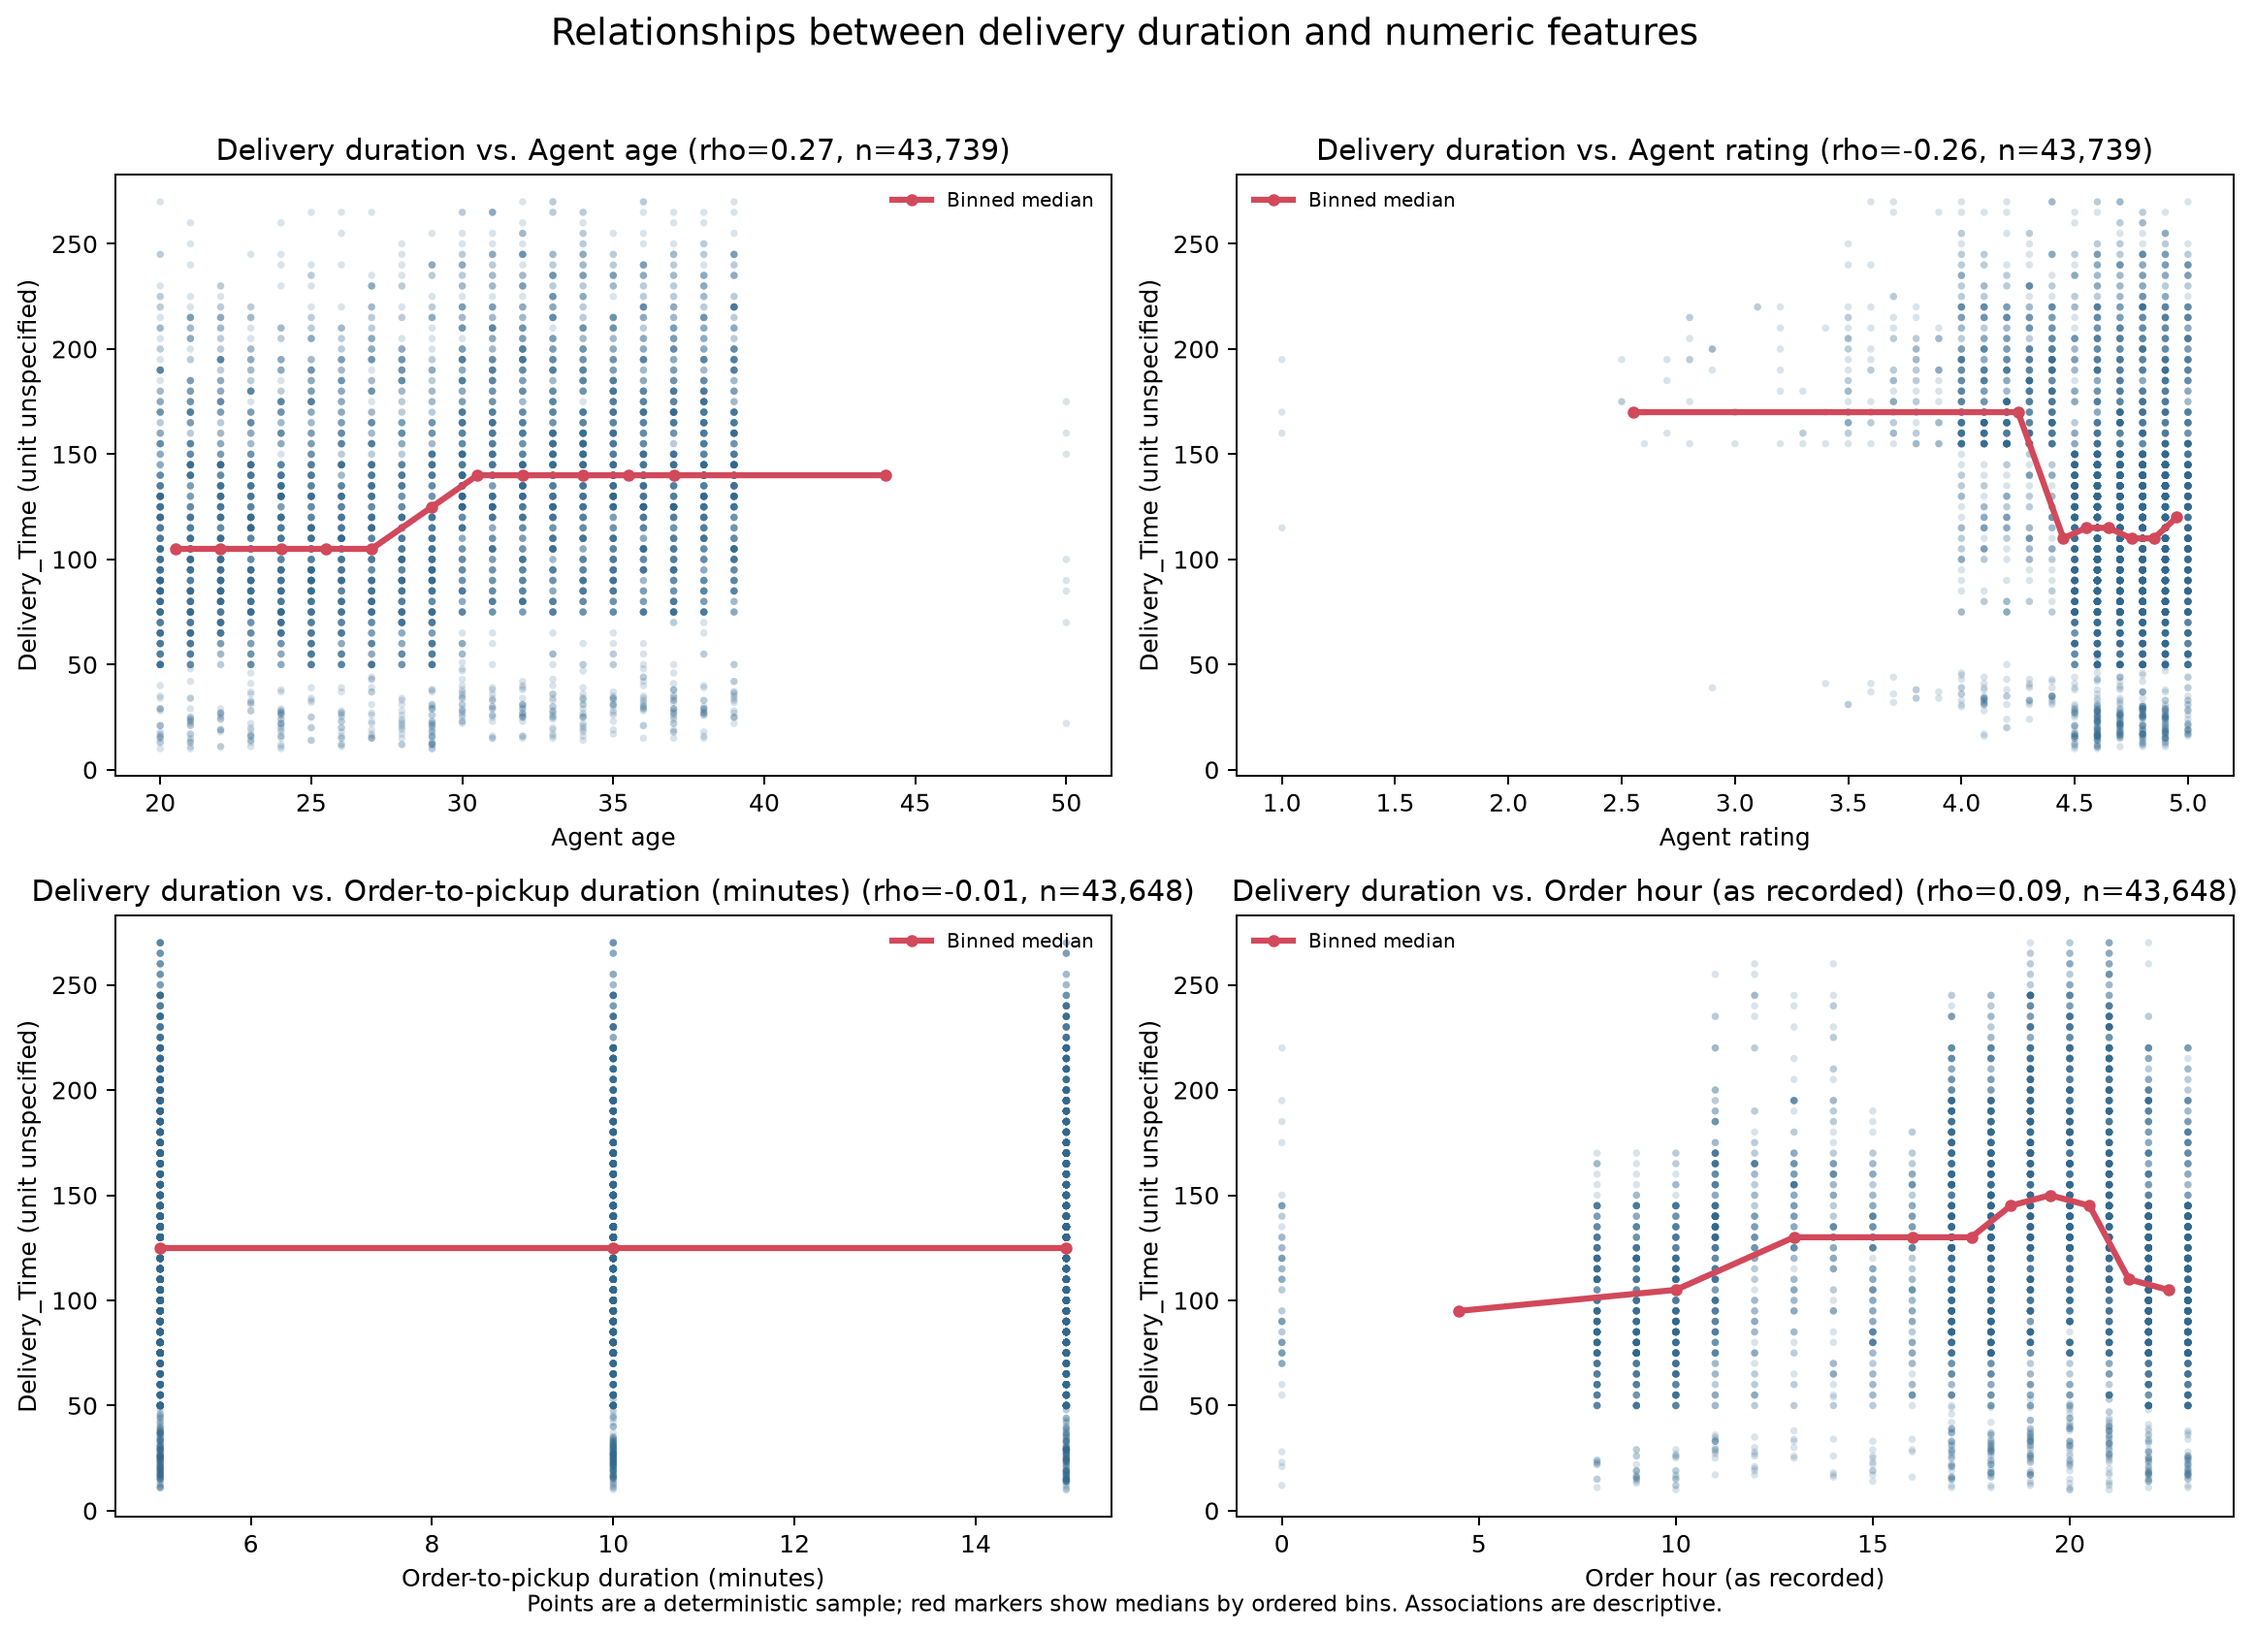
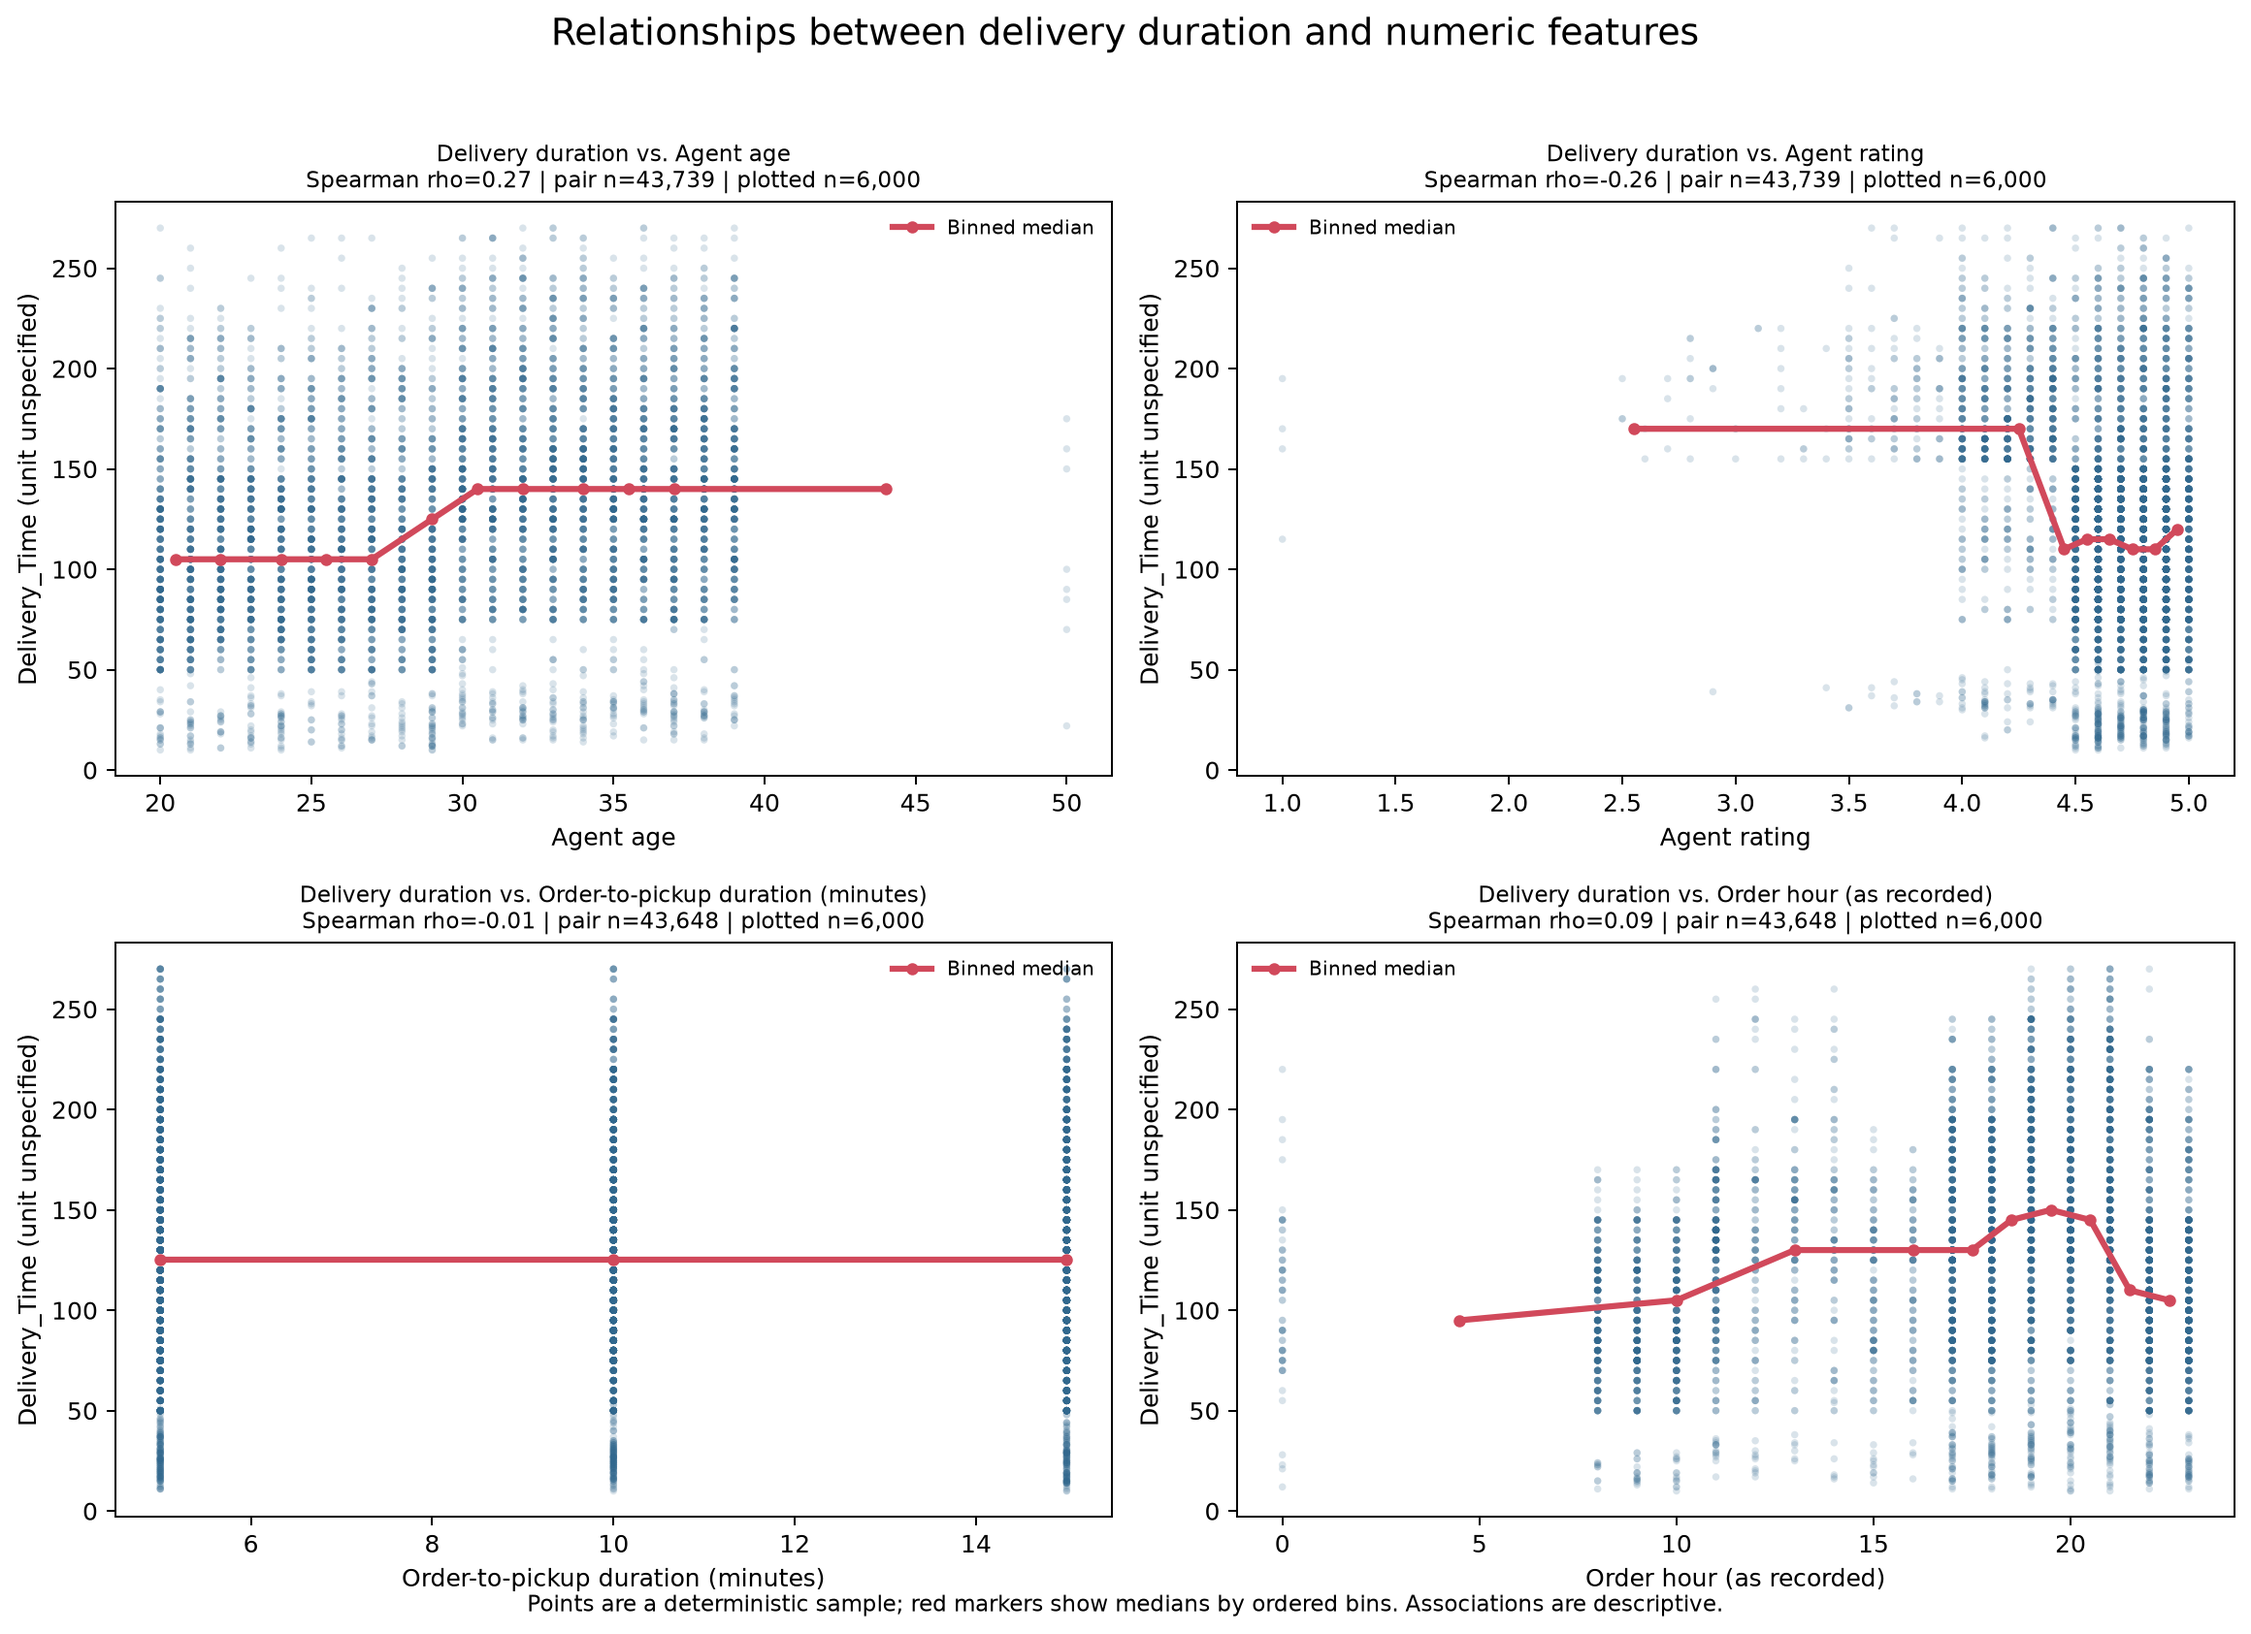
eda: add findings review and clarify chart sample sizes

diff --git a/docs/eda_findings_review.md b/docs/eda_findings_review.md
@@ -1,0 +1,40 @@
+# EDA Findings and Review Limitations
+
+## Purpose and dataset
+
+This report brings together the descriptive findings from the approved `amazon_delivery_cleaned_updated.csv` supplied on 2026-11-24. The file contains 43,739 records and 28 columns and remains in the user's Downloads folder rather than this repository. The source file profile, detailed group comparisons, and numeric relationships are documented in the [dataset quality and univariate analysis](quality_univariate_analysis.md), [delivery duration comparisons](delivery_duration_by_factors.md), and [numeric relationship analysis](numeric_relationship_analysis.md).
+
+`Delivery_Time` is treated as delivery duration, but its unit remains unspecified because it has not been verified. `Pickup_Delay_Minutes` means order-to-pickup duration in minutes. The dataset has no promised delivery time, actual delivery timestamp, or delivery status; accordingly, this report does not calculate on-time, late, completion, or promise-based delay rates.
+
+## Strongest supported patterns
+
+- **Traffic groups differ descriptively.** Median `Delivery_Time` is 100 for Low traffic (`n=14,999`) and 150 for Jam (`n=13,725`). The High group median is 135 (`n=4,296`), so the pattern does not increase steadily through every traffic label.
+- **Observed order period and weather groups also differ.** Evening has a median of 140 (`n=17,797`) compared with 100 for Morning (`n=7,674`). Weather medians range from 100 for Sunny (`n=7,078`) to 140 for Cloudy (`n=7,288`).
+- **Duration tends to be higher in longer estimated-distance bands.** Median duration ranges from 105 in the shortest distance quartile (`n=10,069`) to 140 in the longest (`n=10,049`). Across valid coordinate pairs, estimated straight-line distance has a Spearman correlation of 0.282 with `Delivery_Time` (`n=40,234`).
+- **The strongest selected numeric associations are modest.** Spearman correlations are 0.282 for estimated straight-line distance (`n=40,234`), 0.274 for `Agent_Age` (`n=43,739`), and -0.259 for `Agent_Rating` (`n=43,739`). Correlations for `Order_Hour` (0.090, `n=43,648`), `Pickup_Delay_Minutes` (-0.008, `n=43,648`), and `Order_DayOfWeek` (0.006, `n=43,739`) are smaller or near zero.
+- **Some group summaries warrant particular caution.** The Semi-Urban area median is 245 with only 152 records, and the bicycle vehicle group has only 15 records. Grocery has a median of 26, while other product categories have medians from 125 to 130; the large difference merits a definition and data-generation review before operational interpretation.
+
+These findings describe this dataset and its recorded fields. They do not establish that any factor caused a delivery-duration difference or predict an individual delivery outcome.
+
+## Caveats and review limitations
+
+- `Delivery_Time` ranges from 10 to 270 in the recorded scale, but the unit is unverified. Do not add a time unit to labels or prose until source documentation confirms it.
+- Pickup duration is a separate measure: `Pickup_Delay_Minutes` is order-to-pickup time in minutes, not a promised-time delivery delay.
+- Group comparisons and Spearman correlations are unadjusted. The factors may overlap, and the reported relationships are not causal effects.
+- There are 91 rows with missing order-time, weather, traffic, and dependent timing fields. Relevant group comparisons and correlations use complete pairs and disclose their sample sizes; missing values were not imputed.
+- Straight-line distance is a great-circle estimate in kilometers, not road distance or route length. Distance analysis includes 40,234 valid coordinate pairs; 188 estimated distances above 50 km were retained, including a maximum of 19,692.70 km, because no exclusion rule was approved.
+- Small groups, especially Semi-Urban and bicycle, have less stable summaries. Category sample sizes are shown in the comparison tables and charts.
+- The data cannot identify whether a delivery was completed, late, or on time against a promise. Those outcomes require fields and business rules that are absent here.
+
+## Open questions for the next review
+
+1. What is the source-documented unit and definition of `Delivery_Time`?
+2. What does one row represent, and what operational process produces the unusually low Grocery duration values?
+3. Should coordinate anomalies or other extreme observations be excluded under an agreed rule, or retained with sensitivity analysis?
+4. Which additional fields would be available for adjusted analysis or forecasting, including promised and actual delivery timestamps and delivery status?
+
+## Chart and artifact review
+
+The existing factor charts use descriptive titles, label the outcome as `Delivery_Time` without assigning an unverified unit, and include group sample counts in category labels. The distance chart labels estimated straight-line distance in kilometers and identifies its scale. Numeric relationship plots label the axes, report pair counts and correlations in panel titles, distinguish the plotted scatter sample from the full pair count, and label distance in kilometers where applicable. Each correlation heatmap cell reports its Spearman coefficient and pairwise sample size. Figure captions in the detailed analysis notes state the relevant populations and exclusions.
+
+Reproducible artifacts are available in the [numeric relationship notebook](../Notebooks/numeric_relationship_analysis.ipynb) and the [delivery duration comparison notebook](../Notebooks/delivery_duration_by_factors.ipynb). Supporting charts are in [`outputs/`](../outputs/).

diff --git a/README.md b/README.md
@@ -8,7 +8,7 @@ The EDA work will examine delivery performance and, where the selected dataset s
 
 ## Current status
 
-The initial EDA plan and KPI definitions are documented in `docs/eda_plan.md`. The dataset was initially profiled and later rechecked against Darshan's approved updated cleaned CSV; the CSV is not committed to this repository. Data quality and univariate findings are documented in `docs/quality_univariate_analysis.md`, with reproducible checks in `Notebooks/quality_univariate_analysis.ipynb`. Delivery-duration comparisons are documented in `docs/delivery_duration_by_factors.md`, with reproducible analysis in `Notebooks/delivery_duration_by_factors.ipynb` and charts in `outputs/`. Numeric relationships and correlations are documented in `docs/numeric_relationship_analysis.md`, with calculations and visualizations in `Notebooks/numeric_relationship_analysis.ipynb`. The `Delivery_Time` unit remains unconfirmed.
+The initial EDA plan and KPI definitions are documented in `docs/eda_plan.md`. The dataset was initially profiled and later rechecked against Darshan's approved updated cleaned CSV; the CSV is not committed to this repository. Data quality and univariate findings are documented in `docs/quality_univariate_analysis.md`, with reproducible checks in `Notebooks/quality_univariate_analysis.ipynb`. Delivery-duration comparisons are documented in `docs/delivery_duration_by_factors.md`, with reproducible analysis in `Notebooks/delivery_duration_by_factors.ipynb` and charts in `outputs/`. Numeric relationships and correlations are documented in `docs/numeric_relationship_analysis.md`, with calculations and visualizations in `Notebooks/numeric_relationship_analysis.ipynb`. The consolidated [EDA findings and review limitations](docs/eda_findings_review.md) summarizes supported patterns, caveats, and open questions. The `Delivery_Time` unit remains unconfirmed.
 
 ## Repository layout
 
@@ -25,6 +25,6 @@ The initial EDA plan and KPI definitions are documented in `docs/eda_plan.md`. T
 1. Confirm the selected dataset, data dictionary, and available fields.
 2. Coordinate with the preprocessing workstream on the cleaned dataset and agreed exclusions.
 3. Complete the EDA notebook and calculate only KPIs supported by the data.
-4. Save labeled visualizations and summarize evidence-based findings and limitations.
+4. Save labeled visualizations and summarize evidence-based findings and limitations in the [review report](docs/eda_findings_review.md).
 
 The folder layout follows the team project's repository conventions. Data quality checks, feature distributions, delivery-duration comparisons, and numeric relationship analysis are recorded in their respective notebooks and findings notes.

diff --git a/docs/numeric_relationship_analysis.md b/docs/numeric_relationship_analysis.md
@@ -29,11 +29,11 @@ The coordinate calculation excludes 3,505 rows with missing store coordinates. A
 
 ![Spearman correlation heatmap for delivery duration and numeric features](../outputs/numeric_relationship_correlation_heatmap.png)
 
-*Figure 1. Pairwise Spearman rank correlations. Raw coordinates are excluded; each cell uses pairwise complete records.*
+*Figure 1. Each cell reports Spearman rank correlation and pairwise sample size. Raw coordinates are excluded; each cell uses pairwise complete records.*
 
 ![Delivery duration against agent age, agent rating, order-to-pickup duration, and order hour](../outputs/delivery_duration_numeric_relationships.png)
 
-*Figure 2. Scatter samples with median markers across ordered feature bins. Titles report Spearman correlation and pair count; `Delivery_Time` has no unit label because its unit is unverified.*
+*Figure 2. Each panel plots a deterministic sample of up to 6,000 complete pairs; titles report Spearman correlation, full pair count, and plotted count. Red markers show medians across ordered feature bins. `Delivery_Time` has no unit label because its unit is unverified.*
 
 ![Delivery duration against estimated straight-line distance](../outputs/delivery_duration_estimated_distance_relationship.png)
 
